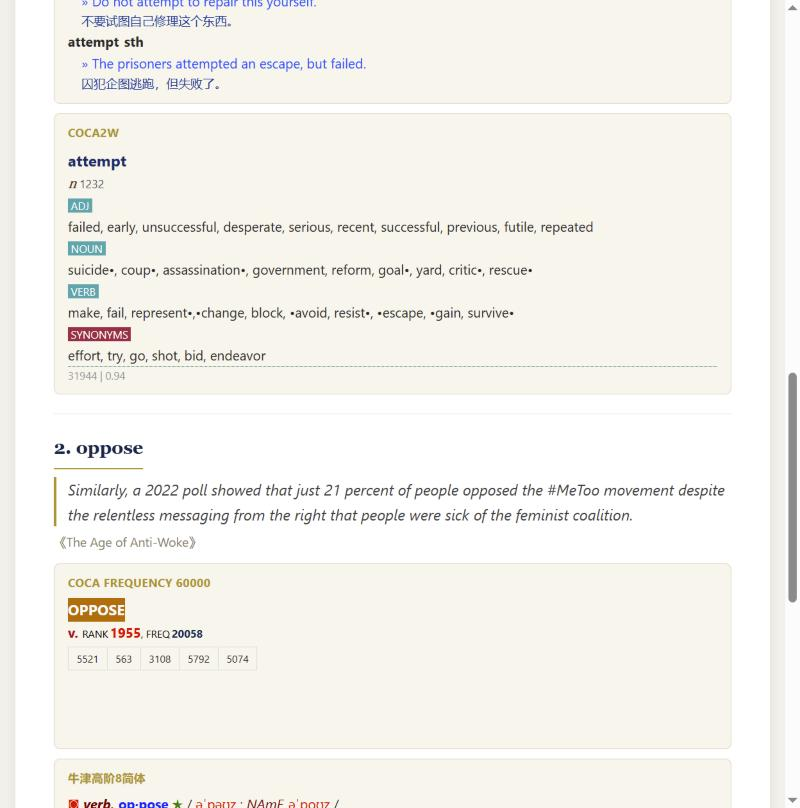
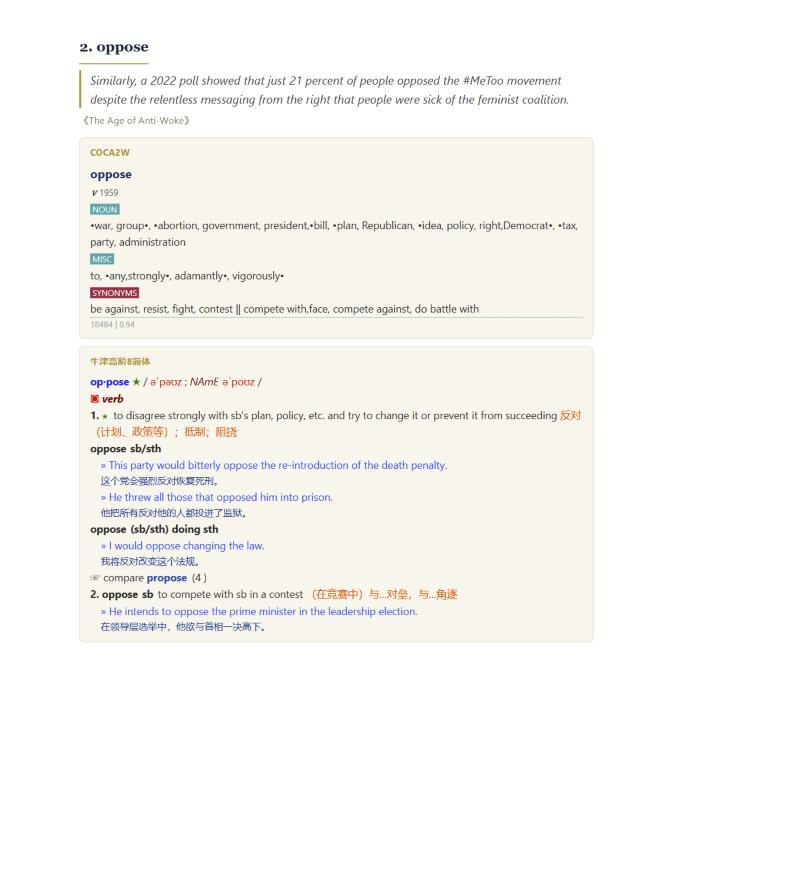
Add a 4th export theme (简约咨询风) and re-shoot the README screenshots
- Add "简约咨询风" (minimal consult, white bg + teal/green accents) as a
  fourth HTML/PDF export color theme, ported from md2pdf's consult preset
- Rename the "HTML 导出配色" setting to "导出配色" since it already applies
  to both HTML and PDF export
- Re-capture all export preview screenshots at higher resolution, cropped
  to a single complete entry with no browser chrome
- Lay out the README screenshot gallery as a 2x2 grid instead of one row
  of three, now that there are four themes

diff --git a/src/exportHtml.ts b/src/exportHtml.ts
@@ -1,7 +1,5 @@
-import { ExportFieldConfig, VocabRecord } from "./types";
+import { ExportFieldConfig, HtmlExportTheme, VocabRecord } from "./types";
 import { escapeHtml } from "./exportShared";
-
-export type HtmlExportTheme = "warm" | "steel" | "navy-gold";
 
 export function buildVocabHtmlList(
 	records: VocabRecord[],
@@ -144,8 +142,23 @@ const NAVY_GOLD_STYLE = `${baseStyle("#f3f1e9", '"Segoe UI", "PingFang SC", "Mic
 	.dict-html { font-size: 14px; }
 `;
 
+// 简约咨询风：参照 md2pdf「咨询报告」配色——墨绿底色标题、青色点缀，纯白底卡片，大留白、干净克制。
+const CONSULT_STYLE = `${baseStyle("#f3f7f8", '"Segoe UI", "PingFang SC", "Microsoft YaHei", sans-serif')}
+	h1 { color: #0b5563; }
+	.entry { padding: 20px 0; border-bottom: 1px solid #d9e7e9; page-break-inside: avoid; }
+	.entry:last-child { border-bottom: none; }
+	.entry h3 { font-size: 19px; margin: 0 0 8px; color: #0b5563; border-bottom: 1.4px solid #0b8a8f; padding-bottom: 6px; display: inline-block; }
+	.entry .sentence { margin: 0 0 6px; padding-left: 12px; border-left: 3px solid #0b8a8f; color: #445a5c; font-style: italic; }
+	.entry .meta { margin: 0 0 12px; color: #6f8a8d; }
+	.definitions { display: flex; flex-direction: column; gap: 10px; }
+	.dict-block { background: #eef6f7; border: 1px solid #c8dde0; border-radius: 6px; padding: 10px 14px; }
+	.dict-name { font-size: 12px; font-weight: 700; color: #0b8a8f; margin-bottom: 6px; text-transform: uppercase; letter-spacing: .3px; }
+	.dict-html { font-size: 14px; }
+`;
+
 const THEME_STYLES: Record<HtmlExportTheme, string> = {
 	warm: WARM_STYLE,
 	steel: STEEL_STYLE,
 	"navy-gold": NAVY_GOLD_STYLE,
+	consult: CONSULT_STYLE,
 };

diff --git a/src/settings.ts b/src/settings.ts
@@ -1,6 +1,6 @@
 import { App, FuzzySuggestModal, Modal, Notice, PluginSettingTab, Setting, TFolder } from "obsidian";
 import type VocabPlugin from "./main";
-import { DictionaryEntry } from "./types";
+import { DictionaryEntry, HtmlExportTheme } from "./types";
 import { getElectronRemote } from "./electronRemote";
 
 export class VocabSettingTab extends PluginSettingTab {
@@ -218,16 +218,17 @@ export class VocabSettingTab extends PluginSettingTab {
 					})
 			);
 		new Setting(containerEl)
-			.setName("HTML 导出配色")
+			.setName("导出配色")
 			.setDesc("影响 HTML 和 PDF 导出的配色和字体（PDF 由同一份 HTML 生成）。")
 			.addDropdown((dd) =>
 				dd
 					.addOption("warm", "暖色经典（米白底，暖棕色点缀）")
 					.addOption("steel", "钢蓝技术风（浅蓝灰底，钢蓝色点缀）")
 					.addOption("navy-gold", "国际双语风（藏青标题，金色分割线）")
+					.addOption("consult", "简约咨询风（纯白底，墨绿青色点缀）")
 					.setValue(this.plugin.settings.htmlExportTheme)
 					.onChange(async (value) => {
-						this.plugin.settings.htmlExportTheme = value as "warm" | "steel" | "navy-gold";
+						this.plugin.settings.htmlExportTheme = value as HtmlExportTheme;
 						await this.plugin.saveSettings();
 					})
 			);

diff --git a/src/types.ts b/src/types.ts
@@ -43,7 +43,7 @@ export interface ExportFieldConfig {
 
 export type LookupTrigger = "dblclick" | "click" | "drag";
 export type ExportFormat = "html-list" | "pdf";
-export type HtmlExportTheme = "warm" | "steel" | "navy-gold";
+export type HtmlExportTheme = "warm" | "steel" | "navy-gold" | "consult";
 
 export interface NoteSyncSettings {
 	enabled: boolean;

diff --git a/README.en.md b/README.en.md
@@ -25,11 +25,15 @@ If you're used to the "tap a word, look it up, export a vocab list when you fini
 
 ## What the export looks like
 
-The HTML export lays out one word per section, with definitions kept in the dictionary's original formatting (colors, bold text, phonetics — all preserved). Here's the same entry (`oppose`) in the three built-in color themes, switchable from "HTML export theme" in settings:
+The HTML export lays out one word per section, with definitions kept in the dictionary's original formatting (colors, bold text, phonetics — all preserved). Here's the same entry (`oppose`) in the four built-in color themes, switchable from "Export theme" in settings:
 
-| Warm classic (default) | Steel blue | Navy & gold |
-| --- | --- | --- |
-| ![Warm classic](screenshots/theme-warm.jpg) | ![Steel blue](screenshots/theme-steel.jpg) | ![Navy & gold](screenshots/theme-navy-gold.jpg) |
+| Warm classic (default) | Steel blue |
+| --- | --- |
+| ![Warm classic](screenshots/theme-warm.jpg) | ![Steel blue](screenshots/theme-steel.jpg) |
+
+| Navy & gold | Minimal consult |
+| --- | --- |
+| ![Navy & gold](screenshots/theme-navy-gold.jpg) | ![Minimal consult](screenshots/theme-consult.jpg) |
 
 ---
 
@@ -95,6 +99,8 @@ Turn on "Sync lookups to a note" in settings, and pick a folder (the "Browse…"
 ### 0.1.8
 
 - Export format is now HTML / PDF only: PDFs are generated natively via Obsidian's built-in Electron (`printToPDF`), no more manual "print to PDF" step. Removed Word export and the `docx` dependency entirely, shrinking `main.js` from ~434KB to ~76KB.
+- Added a fourth export theme, "Minimal consult" (white background, teal/dark-green accents) — four themes total now, selectable for both HTML and PDF export.
+- Re-captured all the README export preview screenshots in higher resolution, laid out as a 2x2 grid instead of a single row of three.
 - Moved the "Export" and "Clear vocab list" buttons into the same toolbar row as "Select all" / "Select today" / "Clear selection", right-aligned.
 - Fixed a visual bug where the row checkboxes bled through the sticky table header when scrolling up (table now uses `border-collapse: separate`).
 - Removed the now-unused "repair old records' definition formatting" setting.

diff --git a/README.md b/README.md
@@ -27,11 +27,15 @@
 
 ## 导出效果预览
 
-导出的 HTML 是逐词排版，释义保留词典原生格式（颜色、加粗、音标一个不少）。下面是同一个词条（`oppose`）在三种配色下的样子，设置里「HTML 导出配色」可以切换：
+导出的 HTML 是逐词排版，释义保留词典原生格式（颜色、加粗、音标一个不少）。下面是同一个词条（`oppose`）在四种配色下的样子，设置里「导出配色」可以切换：
 
-| 暖色经典（默认） | 钢蓝技术风 | 国际双语风 |
-| --- | --- | --- |
-| ![暖色经典](screenshots/theme-warm.jpg) | ![钢蓝技术风](screenshots/theme-steel.jpg) | ![国际双语风](screenshots/theme-navy-gold.jpg) |
+| 暖色经典（默认） | 钢蓝技术风 |
+| --- | --- |
+| ![暖色经典](screenshots/theme-warm.jpg) | ![钢蓝技术风](screenshots/theme-steel.jpg) |
+
+| 国际双语风 | 简约咨询风 |
+| --- | --- |
+| ![国际双语风](screenshots/theme-navy-gold.jpg) | ![简约咨询风](screenshots/theme-consult.jpg) |
 
 ---
 
@@ -97,6 +101,8 @@
 ### 0.1.8
 
 - 导出格式改为 HTML / PDF 两种，PDF 由 Obsidian 内置的 Electron（`printToPDF`）直接生成，不用再手动"打印另存"；彻底移除了 Word 导出和 `docx` 依赖，`main.js` 体积从约 434KB 降到约 76KB。
+- 新增第四套导出配色"简约咨询风"（纯白底，墨绿青色点缀），现在一共四套配色，HTML 和 PDF 导出都能选。
+- README 导出效果预览截图全部重新高清截图，改成两张一排、两排四张的排版。
 - 生词本表格的「导出」「清空生词本」按钮移到和「全选」「选中今天」「清空选择」同一行工具栏，靠右对齐。
 - 修复表格往上滚动时，左侧勾选框从表头下方透出来的重叠问题（表格改用 `border-collapse: separate`）。
 - 去掉了"修复旧记录的释义排版"这个设置项（已没有用处）。
